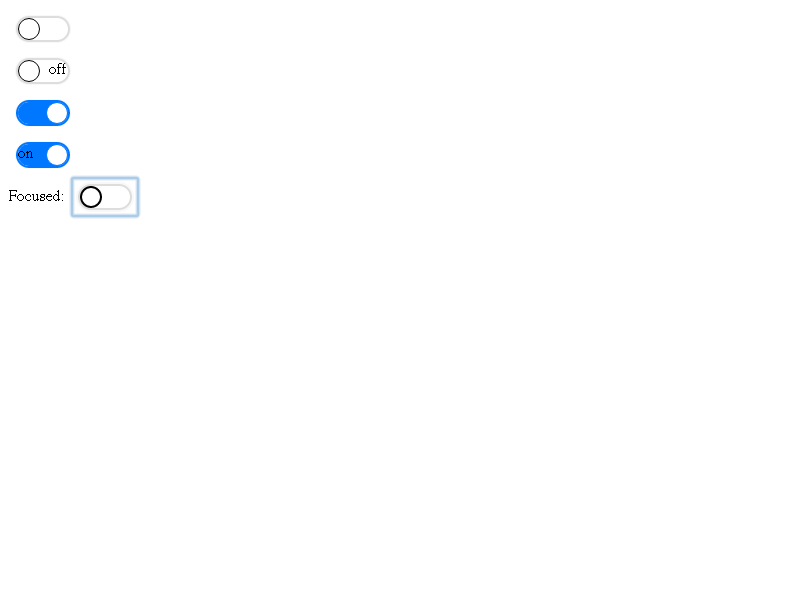
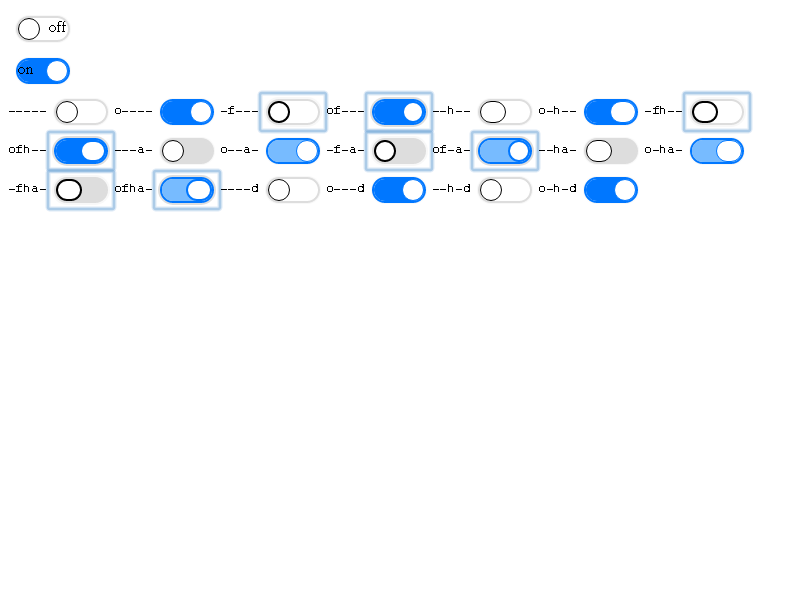
std-switch: Add :hover and :active style
This CL also adds internals.setPseudoClassState() for ease of visual
testing of various states.

Bug: 972476
Commit-Queue: Kent Tamura <tkent@chromium.org>
Cr-Commit-Position: refs/heads/master@{#673633}

diff --git a/web_tests/std-switch/switch-appearance.html b/web_tests/std-switch/switch-appearance.html
@@ -5,6 +5,11 @@ std-switch {
   /* TODO(tkent): Should have margin in UA style? */
   margin: 0.5em;
 }
+
+.container {
+  float: left;
+  font-family: monospace;
+}
 </style>
 <script type="module">
 import 'std:elements/switch';
@@ -12,12 +17,57 @@ import 'std:elements/switch';
 
 </script>
 
-<div><std-switch></std-switch></div>
 <div><std-switch><div style="display:inline-block; text-align:right; width:100%;">off</div></std-switch></div>
-<div><std-switch on></std-switch></div>
 <div><std-switch on>on</std-switch></div>
-<div>Focused: <std-switch id="focus"></std-switch></div>
 <script type="module">
-document.getElementById('focus').focus();
+const MASK_ON = 1;
+const MASK_FOCUS = 1 << 1;
+const MASK_HOVER = 1 << 2;
+const MASK_ACTIVE = 1 << 3;
+const MASK_DISABLED = 1 << 4;
+const MASK_END = 1 << 5;
+for (let mask = 0; mask < MASK_END; ++mask) {
+  let indicator = '';
+  let switchElement = document.createElement('std-switch');
+  if (mask & MASK_ON) {
+    switchElement.on = true;
+    indicator += 'o';
+  } else {
+    indicator += '-';
+  }
+  if (mask & MASK_FOCUS) {
+    internals.setPseudoClassState(switchElement, ':focus', true);
+    indicator += 'f';
+  } else {
+    indicator += '-';
+  }
+  if (mask & MASK_HOVER) {
+    internals.setPseudoClassState(switchElement, ':hover', true);
+    indicator += 'h';
+  } else {
+    indicator += '-';
+  }
+  if (mask & MASK_ACTIVE) {
+    internals.setPseudoClassState(switchElement, ':active', true);
+    indicator += 'a';
+  } else {
+    indicator += '-';
+  }
+  if (mask & MASK_DISABLED) {
+    switchElement.disabled = true;
+    indicator += 'd';
+  } else {
+    indicator += '-';
+  }
+  // Skip some impossible combinations
+  if (mask & MASK_DISABLED && (mask & MASK_FOCUS || mask & MASK_ACTIVE)) {
+    continue;
+  }
+  let container = document.createElement('div');
+  container.className = 'container';
+  container.appendChild(document.createTextNode(indicator));
+  container.appendChild(switchElement);
+  document.body.appendChild(container);
+}
 </script>
 </body>

diff --git a/renderer/core/dom/document.cc b/renderer/core/dom/document.cc
@@ -300,6 +300,7 @@
 #include "third_party/blink/renderer/platform/scheduler/public/thread_scheduler.h"
 #include "third_party/blink/renderer/platform/text/date_components.h"
 #include "third_party/blink/renderer/platform/text/platform_locale.h"
+#include "third_party/blink/renderer/platform/web_test_support.h"
 #include "third_party/blink/renderer/platform/weborigin/origin_access_entry.h"
 #include "third_party/blink/renderer/platform/weborigin/scheme_registry.h"
 #include "third_party/blink/renderer/platform/weborigin/security_origin.h"
@@ -7368,6 +7369,29 @@ TextAutosizer* Document::GetTextAutosizer() {
   if (!text_autosizer_)
     text_autosizer_ = MakeGarbageCollected<TextAutosizer>(this);
   return text_autosizer_.Get();
+}
+
+bool Document::SetPseudoStateForTesting(Element& element,
+                                        const String& pseudo,
+                                        bool matches) {
+  DCHECK(WebTestSupport::IsRunningWebTest());
+  auto& set = UserActionElements();
+  if (pseudo == ":focus") {
+    set.SetFocused(&element, matches);
+    element.PseudoStateChanged(CSSSelector::kPseudoFocus);
+  } else if (pseudo == ":focus-within") {
+    set.SetHasFocusWithin(&element, matches);
+    element.PseudoStateChanged(CSSSelector::kPseudoFocusWithin);
+  } else if (pseudo == ":active") {
+    set.SetActive(&element, matches);
+    element.PseudoStateChanged(CSSSelector::kPseudoActive);
+  } else if (pseudo == ":hover") {
+    set.SetHovered(&element, matches);
+    element.PseudoStateChanged(CSSSelector::kPseudoHover);
+  } else {
+    return false;
+  }
+  return true;
 }
 
 void Document::SetAutofocusElement(Element* element) {

diff --git a/renderer/core/testing/internals.cc b/renderer/core/testing/internals.cc
@@ -3304,6 +3304,17 @@ void Internals::setCapsLockState(bool enabled) {
       enabled ? OverrideCapsLockState::kOn : OverrideCapsLockState::kOff);
 }
 
+void Internals::setPseudoClassState(Element* element,
+                                    const String& pseudo,
+                                    bool matches,
+                                    ExceptionState& exception_state) {
+  if (!element->GetDocument().SetPseudoStateForTesting(*element, pseudo,
+                                                       matches)) {
+    exception_state.ThrowDOMException(DOMExceptionCode::kNotSupportedError,
+                                      pseudo + " is not supported");
+  }
+}
+
 bool Internals::setScrollbarVisibilityInScrollableArea(Node* node,
                                                        bool visible) {
   if (ScrollableArea* scrollable_area = ScrollableAreaForNode(node)) {

diff --git a/renderer/core/dom/document.h b/renderer/core/dom/document.h
@@ -783,6 +783,10 @@ class CORE_EXPORT Document : public ContainerNode,
   const UserActionElementSet& UserActionElements() const {
     return user_action_elements_;
   }
+  // Returns false if the function fails.  e.g. |pseudo| is not supported.
+  bool SetPseudoStateForTesting(Element& element,
+                                const String& pseudo,
+                                bool matches);
   void SetAutofocusElement(Element*);
   Element* AutofocusElement() const { return autofocus_element_.Get(); }
   void SetSequentialFocusNavigationStartingPoint(Node*);

diff --git a/renderer/core/testing/internals.h b/renderer/core/testing/internals.h
@@ -540,6 +540,10 @@ class Internals final : public ScriptWrappable {
   String unscopableMethod();
 
   void setCapsLockState(bool enabled);
+  void setPseudoClassState(Element* element,
+                           const String& pseudo,
+                           bool enabled,
+                           ExceptionState& exception_state);
 
   bool setScrollbarVisibilityInScrollableArea(Node*, bool visible);
 
